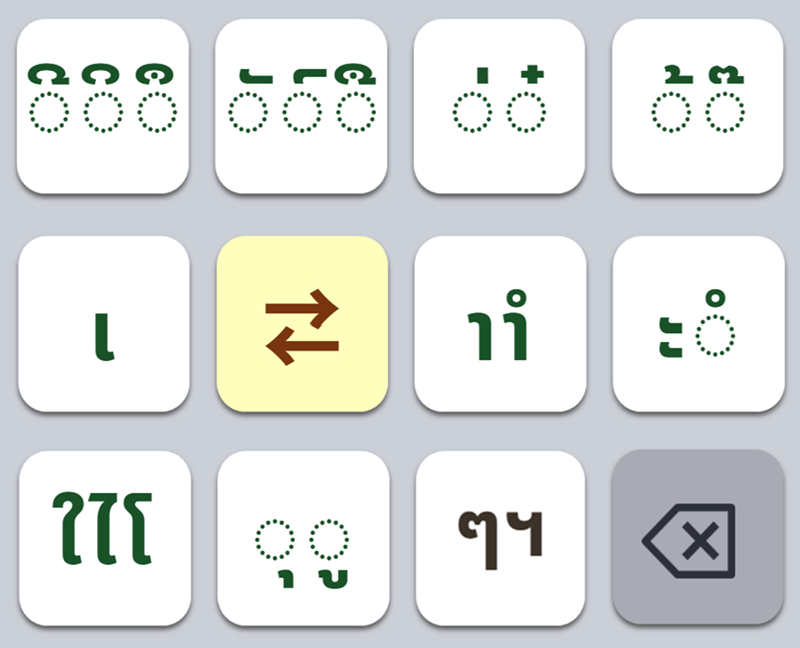
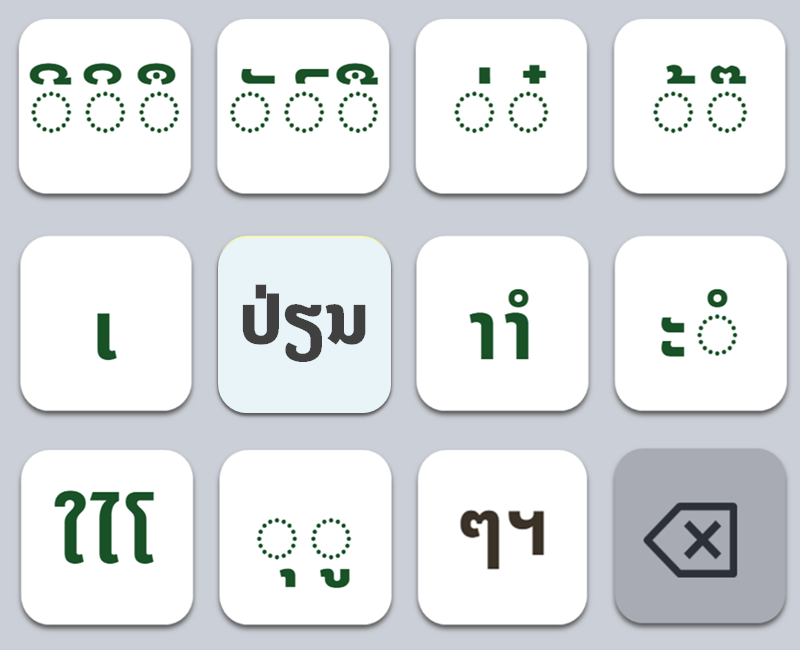
Add files via upload

diff --git a/mobile_demo.html b/mobile_demo.html
@@ -69,7 +69,7 @@
 
   /* 변환키: 후보 여러 개를 wrap해서 표시 */
   .kbd-next {
-    color: #78350f; font-weight: 900; flex-direction: row;
+    font-weight: 900; flex-direction: row;
     flex-wrap: wrap; justify-content: center; align-items: center;
     gap: 2px; line-height: 1.1;
   }
@@ -223,7 +223,7 @@ function getRoot(char) {
 function getNextKeyLabels() {
   if (state.hConjChar) {
     const root = getRoot(state.hConjChar);
-    if (!root) return ['⇄'];
+    if (!root) return ['ປ່ຽນ'];
     const arr = consonantRows[root];
     return [arr[(arr.indexOf(state.hConjChar) + 1) % arr.length]];
   }
@@ -235,7 +235,7 @@ function getNextKeyLabels() {
     }
     return arr.slice(1); // 비기본 후보 전체
   }
-  return ['⇄'];
+  return ['ປ່ຽນ'];
 }
 
 function handleConsonant(root) {
